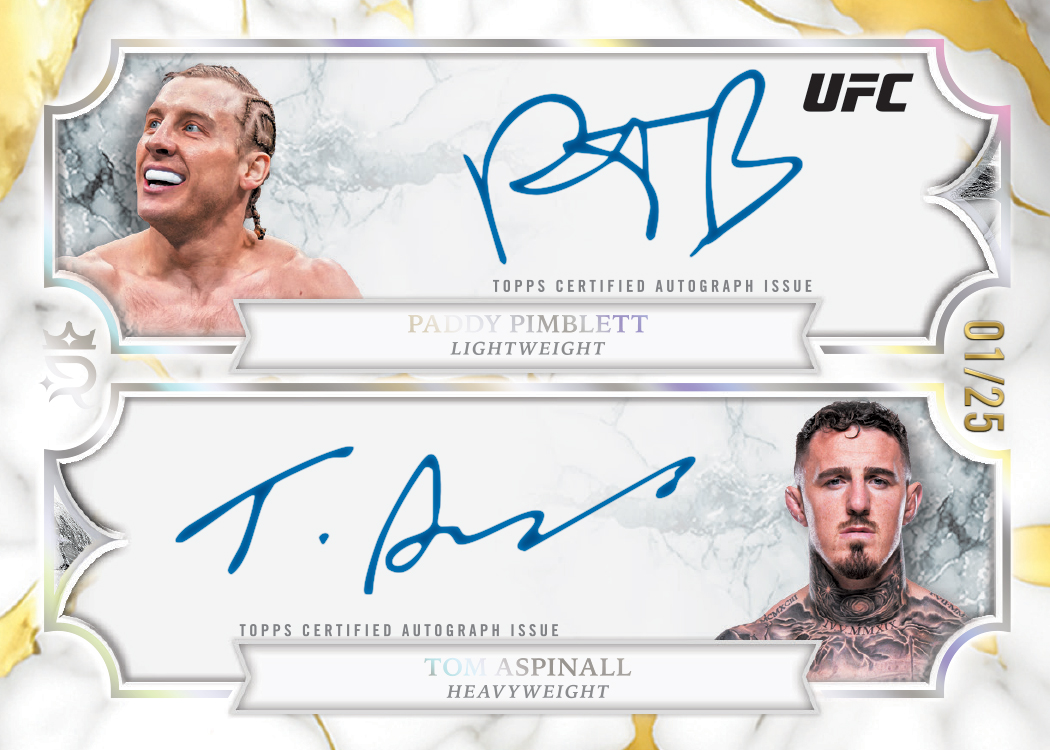
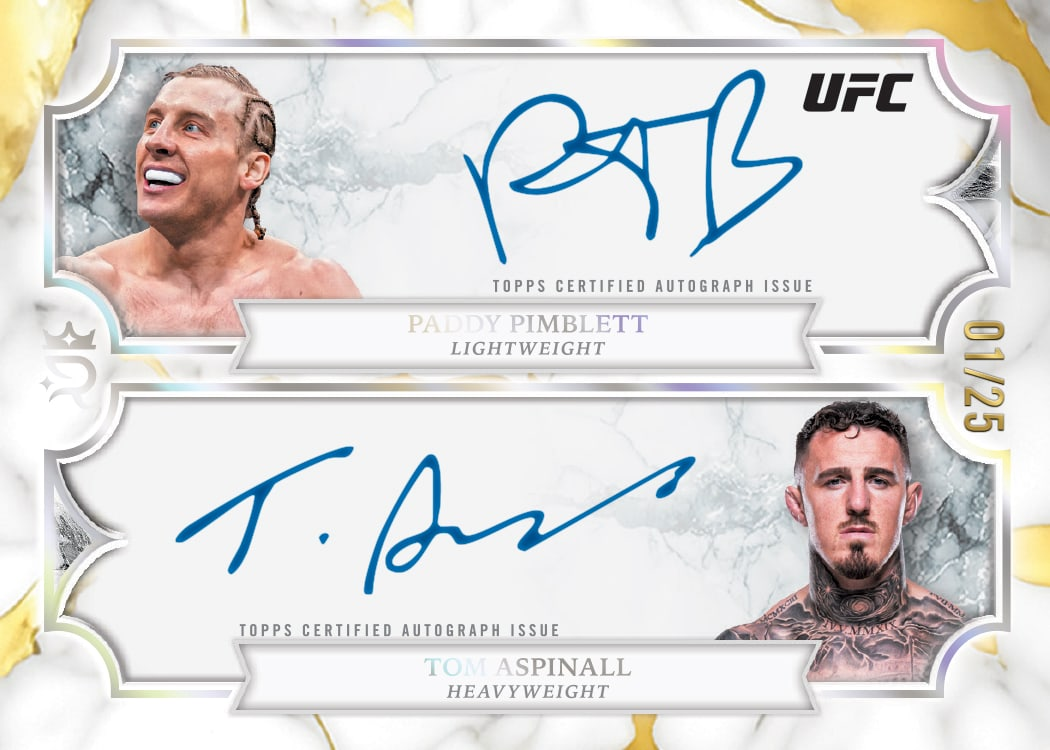
chore(images): process + renumber card galleries for Chrome Football and Royalty UFC
Apply the standard gallery pass to both sets' card images:
- 2026 Topps Chrome Football: drop the cover byte-duplicate (old -2), convert the
  -0 PNG to JPEG, re-encode all survivors to sRGB JPEG under 1.5 MB (six were
  over), renumber contiguous -1..-19 (7 -> 19 gallery images).
- 2026 Topps Royalty UFC: re-encode to sRGB JPEG under 1.5 MB and renumber
  contiguous -1..-14, closing the pre-existing -3 gap (14 -> 14).
- Regenerate cardGalleryManifest.json (only these two sets' keys change).

Repoint the Royalty UFC article references broken by the renumber (verified by
dimensions + perceptual fingerprint, since files were re-encoded):
- heroImage -10.jpg -> -9.jpg (also updates the article's OG/Twitter image URL)
- in-body Gaethje image -11.jpg -> -10.jpg

Add a CLAUDE.md guard: the image pass must never renumber a file referenced by
name in source unless it repoints every reference in the same commit.

diff --git a/src/lib/articles.ts b/src/lib/articles.ts
@@ -80,7 +80,7 @@ export const articles: Article[] = [
     "updatedAt": "2026-11-14",
     "description": "Every card in 2026 Topps Royalty UFC is serial numbered and every subset has published hobby odds. This breakdown uses those numbers to show who leads the checklist, the five rarest cards, how many cards Topps printed, and how many hobby boxes exist.",
     "metaDescription": "2026 Topps Royalty UFC: 785 cards, 104 numbered parallels, about 131,000 cards printed, roughly 12,000 boxes, and Dana White's $250,000 bounty card.",
-    "heroImage": "/sets/cards/2026-topps-royalty-ufc/2026-topps-royalty-ufc-10.jpg",
+    "heroImage": "/sets/cards/2026-topps-royalty-ufc/2026-topps-royalty-ufc-9.jpg",
     "heroAlt": "2026 Topps Royalty UFC hobby box and cards",
     "tags": [
       "ufc",
@@ -387,7 +387,7 @@ export const articles: Article[] = [
       },
       {
         "type": "image",
-        "src": "/sets/cards/2026-topps-royalty-ufc/2026-topps-royalty-ufc-11.jpg",
+        "src": "/sets/cards/2026-topps-royalty-ufc/2026-topps-royalty-ufc-10.jpg",
         "alt": "Justin Gaethje USA 250 Patch Autograph 1/1 from 2026 Topps Royalty UFC",
         "caption": "Justin Gaethje USA 250 Patch Autograph 1/1 from 2026 Topps Royalty UFC"
       },

diff --git a/CLAUDE.md b/CLAUDE.md
@@ -14,3 +14,19 @@ Phase 0 always includes the following check:
 > auto-fixes: (a) is usually a manufacturer copy error on the minority cards; (b) is
 > usually a manufacturer error unless the sport's convention allows multi-year RC
 > status. Gates use the counts after rulings.
+
+## Card-gallery image pass — renumber guard
+
+The gallery image pass (drop cover byte-duplicates, convert PNG → JPEG, re-encode
+to sRGB JPEG ≤ 1.5 MB, renumber survivors contiguous `-1…-N`) **must never
+renumber a file that any source file references by its name** — unless it updates
+every such reference in the **same commit**.
+
+Before committing any renumber, grep the source (at least `src/lib/articles.ts`,
+`src/lib/setNotes.ts`, `src/lib/updates.ts`, and anything else) for hard-coded
+`/sets/cards/<slug>/<slug>-<n>.(jpg|png|webp)` paths. For each hit, find the image
+it pointed at **before** the renumber (the committed file at that name in the prior
+commit) and repoint it to that same image's new name. Because the pass re-encodes,
+verify the match by dimensions + a perceptual pixel fingerprint (not md5). Article
+hero images also feed the page's OpenGraph/Twitter `images` URL, so updating
+`heroImage` is enough for those — but confirm it.
